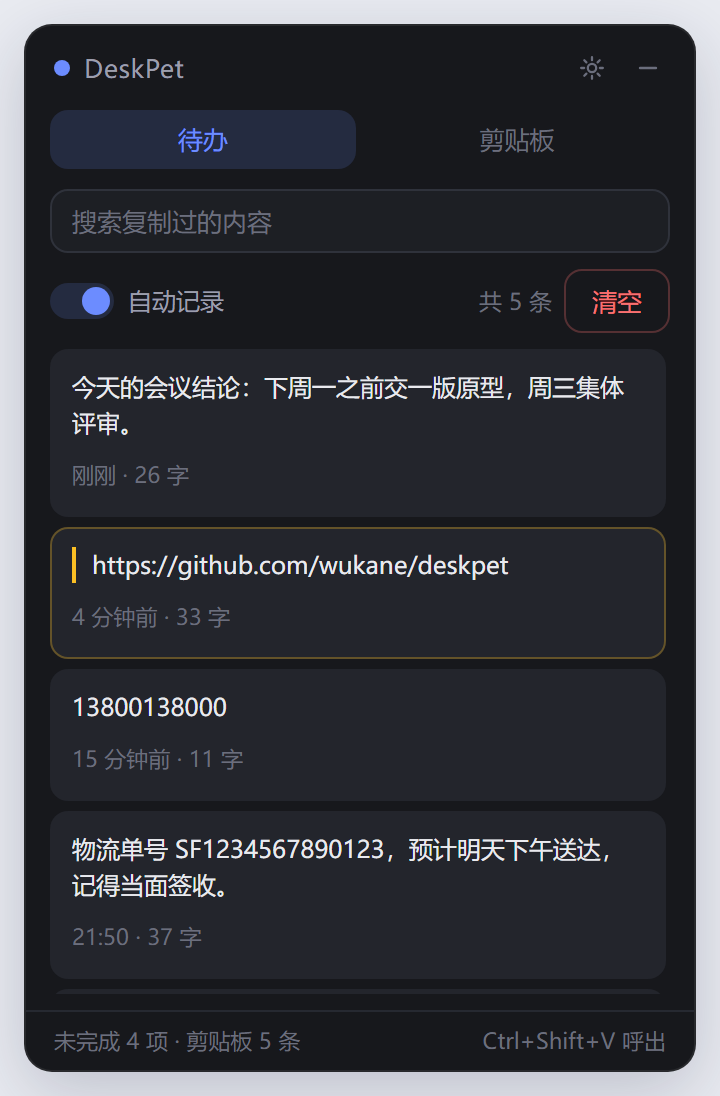
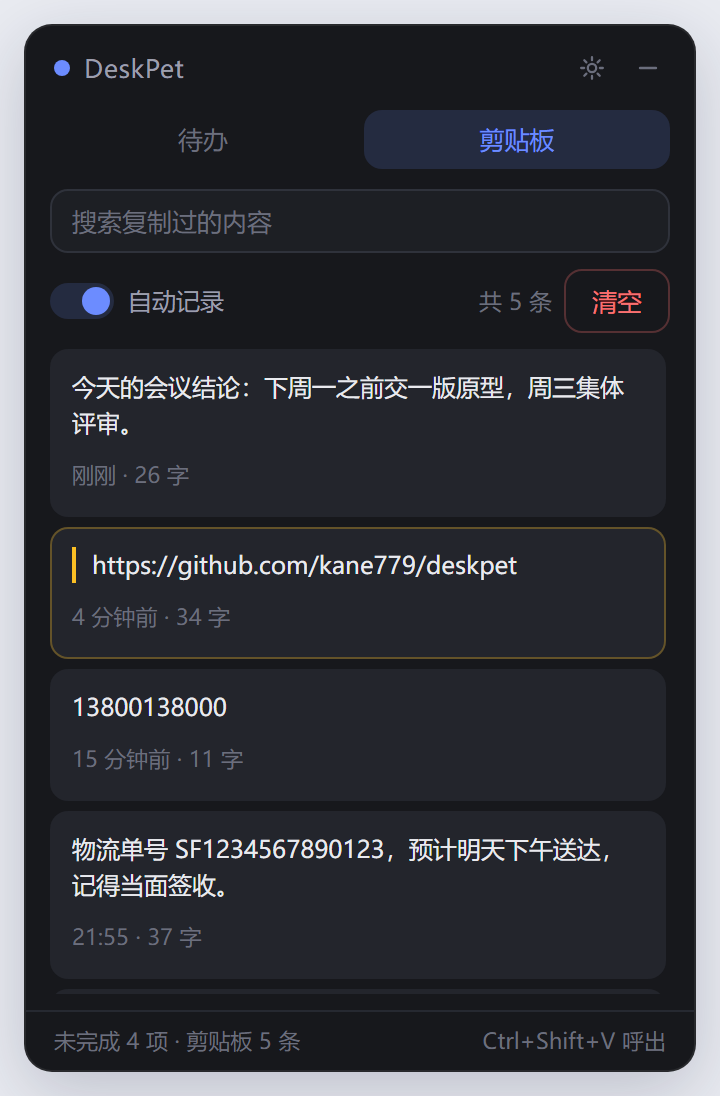
screenshot demo: use real repo url

Changed region(s): [[0.0611, 0.0931, 0.9472, 0.1551], [0.4278, 0.4964, 0.7333, 0.5274], [0.1528, 0.8376, 0.1833, 0.8686]]

diff --git a/tools/screenshot-demo.html b/tools/screenshot-demo.html
@@ -47,7 +47,7 @@
       ],
       clips: [
         { id: 'c1', text: '今天的会议结论：下周一之前交一版原型，周三集体评审。', createdAt: Date.now() - 40000, pinned: false },
-        { id: 'c2', text: 'https://github.com/wukane/deskpet', createdAt: Date.now() - 260000, pinned: true },
+        { id: 'c2', text: 'https://github.com/kane779/deskpet', createdAt: Date.now() - 260000, pinned: true },
         { id: 'c3', text: '13800138000', createdAt: Date.now() - 900000, pinned: false },
         { id: 'c4', text: '物流单号 SF1234567890123，预计明天下午送达，记得当面签收。', createdAt: Date.now() - 3600000, pinned: false },
         { id: 'c5', text: "SELECT * FROM users WHERE created_at > '2026-01-01';", createdAt: Date.now() - 7200000, pinned: false }
